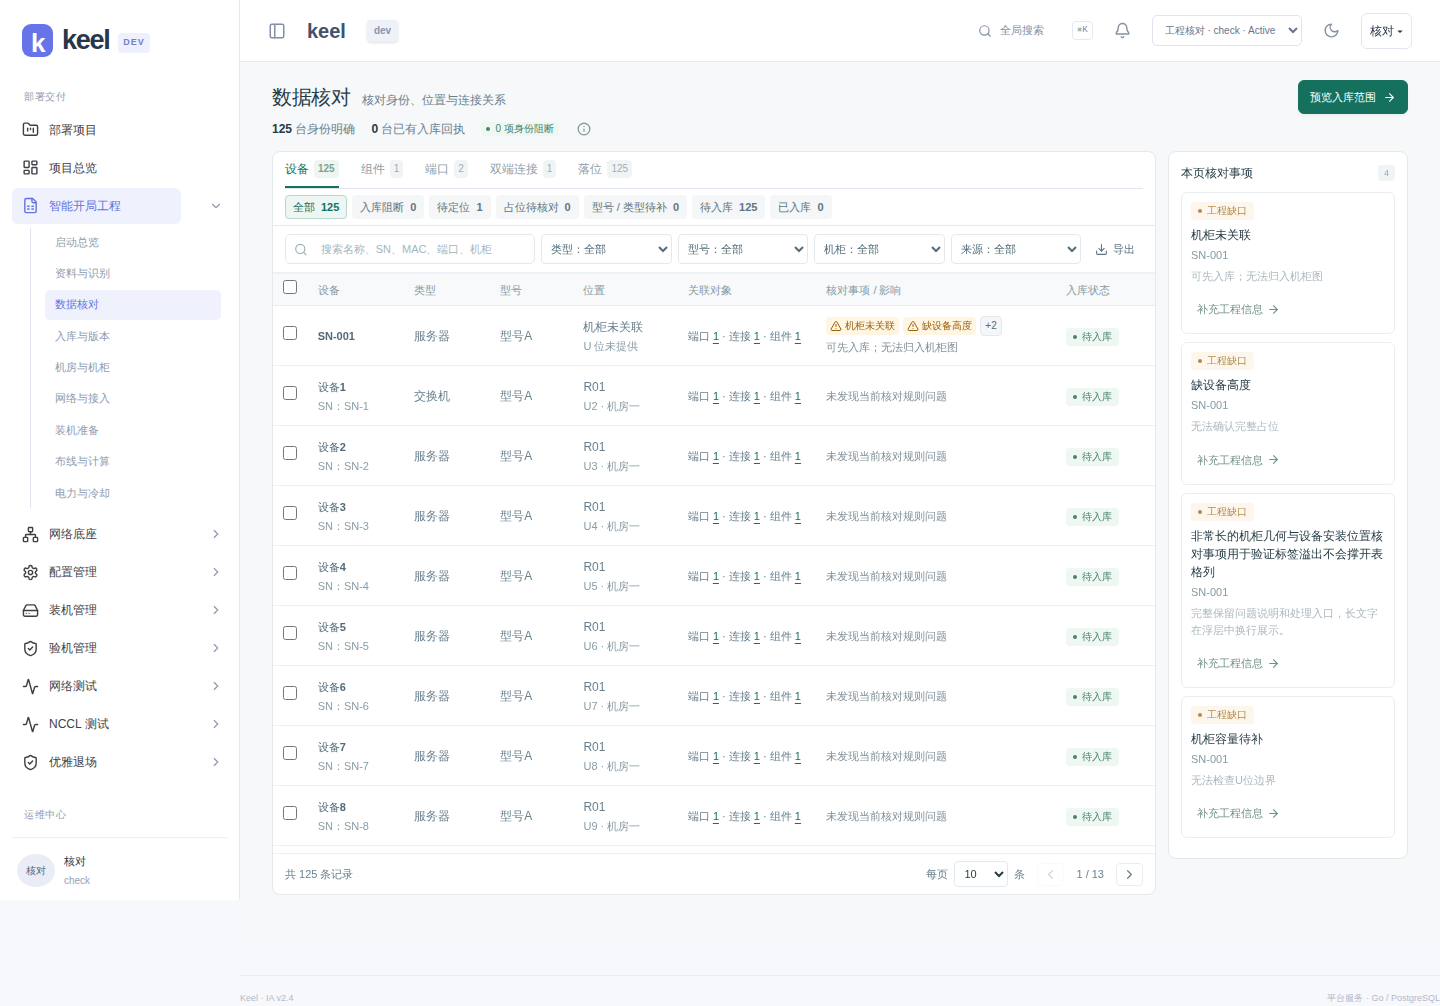
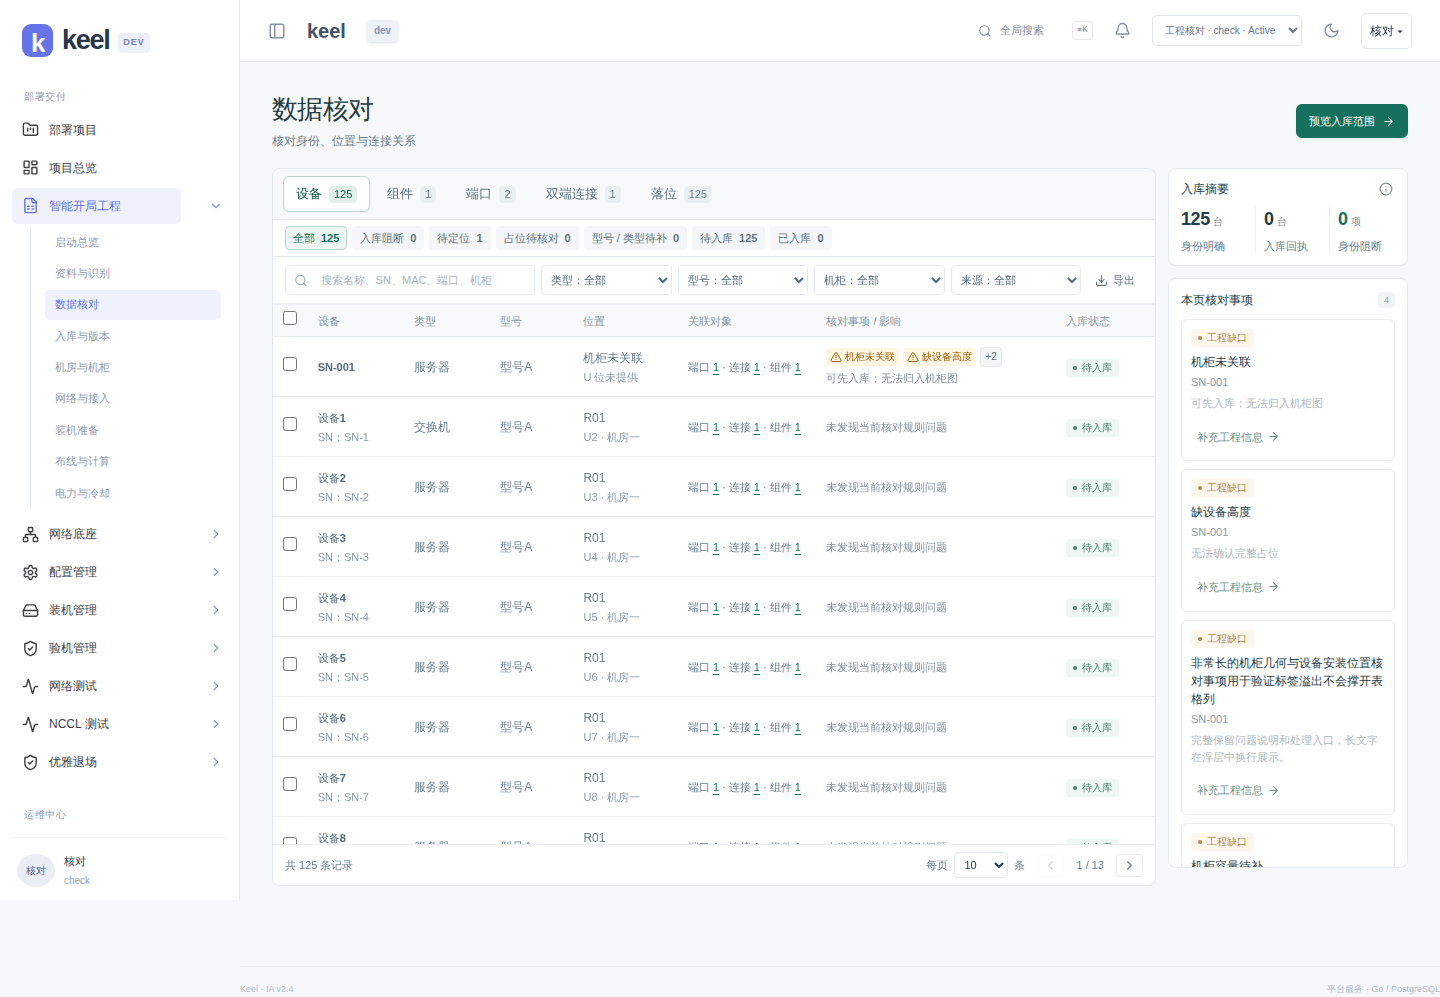
style(kickoff): align review heading and clarify entity navigation

diff --git a/dev/src/features/kickoff/pages/Review.tsx b/dev/src/features/kickoff/pages/Review.tsx
@@ -57,15 +57,15 @@ export default function Review(){
  columns.push(col('signals','核对事项 / 影响',r=><div className="review-row-signals">{r.signals.length?<><div>{r.signals.slice(0,2).map((signal,i)=><span className={'review-signal '+signal.severity} title={`${signal.label}：${signal.impact}`} key={i}>{signal.severity!=='info'&&<AlertTriangle size={12}/>} {signal.label}</span>)}{r.signals.length>2&&<DropdownMenu><DropdownMenuTrigger asChild><button className="review-more-signals" aria-label={`查看 ${name(r)} 的另外 ${r.signals.length-2} 项问题`} onClick={e=>e.stopPropagation()}>+{r.signals.length-2}</button></DropdownMenuTrigger><DropdownMenuContent className="review-findings-menu" align="end" onClick={e=>e.stopPropagation()}>{r.signals.slice(2).map((signal,i)=><DropdownMenuItem key={i} className="review-finding-option" onSelect={()=>handleFinding(r,signal)}><span><b>{signal.label}</b><small>{signal.impact}</small></span><ArrowRight size={13}/></DropdownMenuItem>)}</DropdownMenuContent></DropdownMenu>}</div><small title={r.signals[0].impact}>{r.signals[0].impact}</small></>:<span className="review-clear">未发现当前核对规则问题</span>}</div>),col('state','入库状态',r=><Badge state={r.state}>{r.state==='published'?'已入库':r.state==='blocked'?'入库阻断':'待入库'}</Badge>,true),col('source','来源',r=><button className="source-link" onClick={e=>{e.stopPropagation();inspect('evidence',r.id,r.evidence);}} title={`${s.sources.find(v=>v.id===r.evidence.sourceId)?.name??'资料'} · ${r.evidence.cell}`}><FileSpreadsheet size={13}/>{r.evidence.sheet||'查看依据'}<ArrowRight size={12}/></button>),col('action','处理',r=>r.signals[0]?.action?<button className="text-link" onClick={e=>{e.stopPropagation();go(r.signals[0].action);}}>{r.signals[0].action.includes('models/')?'补充建模':'查看关联'}<ArrowRight size={12}/></button>:<span>—</span>));
  const edit=(i:Issue)=>{setIssue(i);setAnswer(i.scope==='identity'?i.entityId:String(s.models.find(m=>m.tableId==='equipment_specs')?.rows.find(r=>r.model===s.devices.find(d=>d.id===i.entityId)?.model)?.height_u??''));};
  return <TooltipProvider delayDuration={200}><div className="review-workbench">
- <div className="review-workbench-header"><div className="review-workbench-title"><h1>数据核对</h1><p>核对身份、位置与连接关系</p></div><Button kind="primary" disabled={!can('bom:execute')} onClick={()=>go('publish'+(selected.length?'?targets='+selected.join(','):''))}>预览入库范围<ArrowRight size={14}/></Button>
- <div className="review-status-summary"><span><b>{eligible.size}</b> 台身份明确</span><span><b>{published.size}</b> 台已有入库回执</span><Badge state={identityIssues?'blocked':'ready'}>{identityIssues} 项身份阻断</Badge><Tooltip><TooltipTrigger asChild><button className="review-info" aria-label="核对状态说明"><Info size={14}/></button></TooltipTrigger><TooltipContent side="bottom" className="max-w-xs leading-relaxed">先处理阻断项，可后补的信息独立保留。位置、型号和工程参数缺口分别展示；缺少几何不等于设备身份入库被阻断。筛选统计可能重叠，不能相加当作总数。</TooltipContent></Tooltip></div></div>
+ <div className="review-workbench-header heading"><div className="review-workbench-title"><h1>数据核对</h1><p>核对身份、位置与连接关系</p></div><Button kind="primary" disabled={!can('bom:execute')} onClick={()=>go('publish'+(selected.length?'?targets='+selected.join(','):''))}>预览入库范围<ArrowRight size={14}/></Button>
+</div>
  <div className="review-layout"><div className="review-table section"><div className="review-tabs"><Tabs items={tabs} value={category} onChange={v=>update({category:v,filter:'',page:'',q:'',sort:'',desc:'',type:'',model:'',rack:'',source:''})}/></div>
  <div className="review-quick-filters" aria-label="核对快捷筛选">{[...new Set([...(quickFilters[category]),...(filter==='issues'?['issues']:[])])].map(key=><button key={key} aria-pressed={filter===key} className={filter===key?'active':''} onClick={()=>update({filter:key==='all'?'':key,page:''})}>{filterLabels[key]}<b>{loading?'—':page.counts[key]??0}</b></button>)}</div>
 
  {pageError&&<Notice tone="error">{pageError}<Button onClick={()=>setRetry(n=>n+1)}>重新加载</Button></Notice>}
  <div className="review-page" aria-busy={loading}>{loading&&<div className="review-loading" role="status">正在读取核对数据…</div>}<DataTable pageSize={pageSize} paginationControls={<label className="review-page-size">每页<select aria-label="单页展示数量" value={pageSize} onChange={e=>update({page_size:e.target.value,page:''})}>{pageSizes.map(size=><option key={size} value={size}>{size}</option>)}</select>条</label>} searchPlaceholder="搜索名称、SN、MAC、端口、机柜" remote={{...paging,total:page.total,change:value=>update({page:value.page?String(value.page):'',q:value.search,sort:value.sorting[0]?.id??'',desc:value.sorting[0]?.desc?'true':''})}} data={page.rows} columns={columns} onRow={r=>inspect(category==='devices'||category==='placements'?'device':category==='connections'?'connection':category==='components'?'component':'port',r.id)} toolbar={<><div className="review-toolbar-facets">{(['type','model','rack','source'] as const).map(key=><label key={key}><span>{{type:'类型',model:'型号',rack:'机柜',source:'来源资料'}[key]}</span><select aria-label={{type:'筛选类型',model:'筛选型号',rack:'筛选机柜',source:'筛选来源资料'}[key]} value={params.get(key)??''} onChange={e=>update({[key]:e.target.value,page:''})}><option value="">{{type:'类型',model:'型号',rack:'机柜',source:'来源'}[key]}：全部</option>{(result?.page.facets??emptyPage.facets)[key].map(option=><option value={option.value} key={option.value}>{key==='type'?typeLabel(option.label):key==='source'?s.sources.find(v=>v.id===option.value)?.name??option.label:option.label}</option>)}</select></label>)}{(filter!=='all'||paging.search||['type','model','rack','source'].some(key=>params.has(key)))&&<Button kind="ghost" onClick={()=>update({filter:'',q:'',page:'',type:'',model:'',rack:'',source:''})}>清除筛选</Button>}</div><Button kind="ghost" disabled={loading||!!pageError} onClick={()=>run('核对结果已导出',async()=>{const exportQuery=new URLSearchParams(query);exportQuery.delete('offset');exportQuery.delete('limit');const result=await api.exportReview!(exportQuery);downloadFile(JSON.stringify(result,null,2),'核对结果-'+category+'.json','application/json');})}><Download size={14}/><span>导出</span></Button></>}/></div>
  {selected.length>0&&category==='devices'&&<div className="selection-bar"><CheckCheck size={16}/><b>已选 {selected.length} 台设备</b><Button kind="ghost" onClick={()=>setSelected([])}>清空选择</Button><Button kind="primary" disabled={!can('bom:execute')} onClick={()=>go('publish?targets='+selected.join(','))}>确认所选范围<ArrowRight size={14}/></Button></div>}</div>
-      <aside className="review-issues"><div className="issues-heading"><h2>本页核对事项</h2><span>{page.rows.reduce((n,r)=>n+r.signals.length,0)}</span></div>{page.rows.flatMap(row=>row.signals.map(signal=>({row,signal}))).slice(0,issueLimit).map(({row,signal},i)=><div className={'issue-card '+(signal.severity==='block'?'identity':'placement')} key={row.id+':'+i}><div><Badge state={signal.severity==='block'?'blocked':'needs_input'}>{signal.severity==='block'?'影响入库':signal.severity==='warning'?'工程缺口':'待补充信息'}</Badge></div><h3 title={signal.label}>{signal.label}</h3><p title={name(row)}>{name(row)}</p><span className="issue-impact" title={signal.impact}>{signal.impact}</span><Button kind="ghost" onClick={()=>handleFinding(row,signal)}>{signal.action.startsWith('models/')?'补充工程信息':'核对关联'}<ArrowRight size={14}/></Button></div>)}{!loading&&!page.rows.some(r=>r.signals.length)&&<p className="source-note">当前页没有发现核对事项。实际运行状态需以采集证据为准。</p>}{page.rows.reduce((n,r)=>n+r.signals.length,0)>issueLimit&&<Button kind="ghost" onClick={()=>setIssueLimit(n=>n+20)}>显示本页更多事项</Button>}</aside>
+      <div className="review-side-rail"><section className="review-stats-card" aria-label="入库摘要"><div className="review-stats-heading"><h2>入库摘要</h2><Tooltip><TooltipTrigger asChild><button className="review-info" aria-label="核对状态说明"><Info size={14}/></button></TooltipTrigger><TooltipContent side="left" className="max-w-xs leading-relaxed">身份明确和已有入库回执分别统计，不应相加。先处理身份阻断；位置、型号和几何缺口可以继续补充，不等于设备身份入库被阻断。</TooltipContent></Tooltip></div><div className="review-stats-grid"><div title="身份明确的设备数量"><strong>{eligible.size}<small>台</small></strong><span>身份明确</span></div><div title="已有入库回执的设备数量"><strong>{published.size}<small>台</small></strong><span>入库回执</span></div><div className={identityIssues?'has-blockers':'no-blockers'} title="尚未解决的身份阻断项"><strong>{identityIssues}<small>项</small></strong><span>身份阻断</span></div></div></section><aside className="review-issues"><div className="issues-heading"><h2>本页核对事项</h2><span>{page.rows.reduce((n,r)=>n+r.signals.length,0)}</span></div>{page.rows.flatMap(row=>row.signals.map(signal=>({row,signal}))).slice(0,issueLimit).map(({row,signal},i)=><div className={'issue-card '+(signal.severity==='block'?'identity':'placement')} key={row.id+':'+i}><div><Badge state={signal.severity==='block'?'blocked':'needs_input'}>{signal.severity==='block'?'影响入库':signal.severity==='warning'?'工程缺口':'待补充信息'}</Badge></div><h3 title={signal.label}>{signal.label}</h3><p title={name(row)}>{name(row)}</p><span className="issue-impact" title={signal.impact}>{signal.impact}</span><Button kind="ghost" onClick={()=>handleFinding(row,signal)}>{signal.action.startsWith('models/')?'补充工程信息':'核对关联'}<ArrowRight size={14}/></Button></div>)}{!loading&&!page.rows.some(r=>r.signals.length)&&<p className="source-note">当前页没有发现核对事项。实际运行状态需以采集证据为准。</p>}{page.rows.reduce((n,r)=>n+r.signals.length,0)>issueLimit&&<Button kind="ghost" onClick={()=>setIssueLimit(n=>n+20)}>显示本页更多事项</Button>}</aside></div>
     </div>
     {issue&&<Modal title={issue.title} description={issue.description} close={()=>setIssue(undefined)}><Notice>{issue.impact}。确认后保留原始来源和本次人工决定。</Notice>{issue.scope==='identity'?<Field label="匹配到的设备" hint={matches.length?'仅显示相同SN和类型的身份，确认后保留所选身份。':'当前无可关联身份，请修正来源后重新识别；该对象保持待确认。'}><select value={answer} onChange={e=>setAnswer(e.target.value)}><option value="">选择相同SN的明确身份</option>{matches.map(d=><option key={d.id} value={d.id}>{d.name} · {d.serial}</option>)}</select></Field>:<Field label="占用高度 U" hint="建议值来自明确匹配的设备型号，确认后应用于此设备。"><input type="number" min="1" step="1" value={answer} onChange={e=>setAnswer(e.target.value)}/></Field>}<div className="modal-actions"><Button onClick={()=>setIssue(undefined)}>稍后处理</Button><Button kind="primary" disabled={issue.scope==='identity'&&!matches.some(d=>d.id===answer)} onClick={async()=>{if(await run('关联已确认，相关数据已更新',()=>api.resolveIssue(issue.id,answer)))setIssue(undefined);}}><Check size={14}/>确认关联</Button></div></Modal>}
   </div></TooltipProvider>;

diff --git a/dev/src/features/kickoff/styles.css b/dev/src/features/kickoff/styles.css
@@ -81,21 +81,22 @@
 .kickoff-workspace .detail-port-list th{font-size:11px;color:var(--muted);font-weight:500}
 
 /* Compact review workbench: presentation-only overrides, isolated from other pages. */
-.kickoff-workspace .review-workbench{margin-top:-12px;min-width:0}
-.kickoff-workspace .review-workbench-header{display:grid;grid-template-columns:minmax(0,1fr) auto;align-items:center;gap:5px 16px;margin-bottom:12px}
-.kickoff-workspace .review-workbench-title{display:flex;align-items:baseline;gap:12px;min-width:0}
-.kickoff-workspace .review-workbench-title h1{margin:0;font-size:20px;line-height:28px;letter-spacing:-.4px;font-weight:650;color:var(--text);white-space:nowrap}
+.kickoff-workspace .review-workbench{min-width:0}
+.kickoff-workspace .review-workbench-header{display:flex;align-items:center;justify-content:space-between;gap:16px;margin-bottom:18px}
+.kickoff-workspace .review-workbench-title{display:flex;flex-direction:column;align-items:flex-start;gap:5px;min-width:0}
+.kickoff-workspace .review-workbench-title h1{margin:0;white-space:nowrap}
 .kickoff-workspace .review-workbench-title p{margin:0;font-size:12px;line-height:18px;color:#69818f}
-.kickoff-workspace .review-workbench-header>.button{height:30px;padding:5px 11px;font-size:11px}
-.kickoff-workspace .review-status-summary{grid-column:1/-1;display:flex;align-items:center;gap:16px;min-height:20px;font-size:12px;color:#69818f;overflow-x:auto;white-space:nowrap}
-.kickoff-workspace .review-status-summary b{color:var(--text);font-weight:600;font-variant-numeric:tabular-nums}
-.kickoff-workspace .review-status-summary .badge{font-size:10px;padding:2px 5px}
+.kickoff-workspace .review-workbench-header>.button{height:32px;padding:6px 12px;font-size:11px;flex-shrink:0}
 .kickoff-workspace .review-info{display:inline-flex;align-items:center;color:#81919a;padding:2px;border-radius:3px;flex-shrink:0}
 .kickoff-workspace .review-workbench .review-layout{grid-template-columns:minmax(0,1fr) 240px;gap:12px}
-.kickoff-workspace .review-workbench .review-tabs{padding:0 12px;margin:0}
-.kickoff-workspace .review-workbench .tabs{gap:22px;min-height:34px;margin:0;padding:0}
-.kickoff-workspace .review-workbench .tabs>button{padding:8px 0;font-size:12px;line-height:16px;gap:5px}
-.kickoff-workspace .review-workbench .tabs>button>span{font-size:10px;padding:1px 4px}
+.kickoff-workspace .review-workbench .review-tabs{padding:7px 10px;margin:0;border-bottom:1px solid var(--border);background:#f7f9fa;border-radius:8px 8px 0 0}
+.kickoff-workspace .review-workbench .tabs{gap:4px;min-height:36px;margin:0;padding:0;border:0}
+.kickoff-workspace .review-workbench .tabs>button{position:relative;min-height:36px;padding:8px 12px;border:1px solid transparent;border-radius:6px;background:transparent;font-size:13px;font-weight:500;line-height:18px;gap:7px;color:#607580;transition:background .15s,color .15s,border-color .15s}
+.kickoff-workspace .review-workbench .tabs>button>span{font-size:11px;font-weight:500;line-height:17px;padding:0 5px;border-radius:4px;color:#69818f;background:#eaf0f2;font-variant-numeric:tabular-nums}
+.kickoff-workspace .review-workbench .tabs>button:hover{background:#edf2f3;color:#263c46}
+.kickoff-workspace .review-workbench .tabs>button[aria-selected="true"]{background:#fff;border-color:#b9d5cb;color:#125b4b;font-weight:650;box-shadow:0 1px 3px #173c2f0d}
+.kickoff-workspace .review-workbench .tabs>button[aria-selected="true"]>span{background:#e2f0e9;color:#125b4b}
+.kickoff-workspace .review-workbench .tabs>button:focus-visible{outline:2px solid #15715e;outline-offset:2px}
 .kickoff-workspace .review-workbench .review-quick-filters{gap:5px;padding:6px 12px;min-height:36px;align-items:center}
 .kickoff-workspace .review-workbench .review-quick-filters button{gap:6px;padding:3px 7px;border-radius:4px;font-size:11px;line-height:16px;border-color:transparent;background:#f4f6f7;color:#617580}
 .kickoff-workspace .review-workbench .review-quick-filters button.active{color:var(--green);background:var(--green-soft);border-color:#b9d7cc}
@@ -110,7 +111,7 @@
 .kickoff-workspace .review-workbench .table-toolbar .button{flex-shrink:0;height:30px;padding:4px 7px;gap:5px;font-size:11px;white-space:nowrap}
 .kickoff-workspace .review-workbench .review-page{min-height:0}
 .kickoff-workspace .review-workbench .review-loading{inset:42px 0 0}
-.kickoff-workspace .review-workbench .table-scroll{max-height:calc(100dvh - 320px);overflow:auto;overscroll-behavior:contain}
+.kickoff-workspace .review-workbench .table-scroll{max-height:calc(100dvh - 360px);overflow:auto;overscroll-behavior:contain}
 .kickoff-workspace .review-workbench .table-scroll thead{position:sticky;top:0;z-index:1;background:#f7f9fa}
 .kickoff-workspace .review-workbench .table-scroll th{height:32px;padding:6px 10px;font-size:11px;line-height:18px;background:#f7f9fa}
 .kickoff-workspace .review-workbench .table-scroll tbody tr{height:60px}
@@ -156,9 +157,30 @@
 @media(max-width:760px){
  .kickoff-workspace .review-workbench-header{gap:5px 8px}
  .kickoff-workspace .review-workbench-title{align-items:flex-start;flex-direction:column;gap:0}
- .kickoff-workspace .review-workbench-title h1{font-size:18px;line-height:24px}
- .kickoff-workspace .review-status-summary{gap:10px;font-size:11px}
  .kickoff-workspace .review-workbench .table-toolbar .search-input{min-width:170px;flex-shrink:0}
  .kickoff-workspace .review-toolbar-facets{flex-shrink:0}
  .kickoff-workspace .review-workbench .table-scroll td{font-size:12px}
+}
+
+/* Align the review header with other Kickoff pages; group real counters above findings. */
+.kickoff-workspace .review-side-rail{display:flex;flex-direction:column;gap:12px;min-width:0;position:sticky;top:12px;max-height:calc(100dvh - 200px)}
+.kickoff-workspace .review-stats-card{border:1px solid var(--border);border-radius:8px;background:#fff;padding:11px 12px;flex-shrink:0}
+.kickoff-workspace .review-stats-heading{display:flex;align-items:center;justify-content:space-between;gap:8px;margin-bottom:9px}
+.kickoff-workspace .review-stats-heading h2{margin:0;font-size:12px;line-height:18px;font-weight:600;color:var(--text)}
+.kickoff-workspace .review-stats-grid{display:grid;grid-template-columns:repeat(3,minmax(0,1fr));gap:8px}
+.kickoff-workspace .review-stats-grid>div{display:flex;flex-direction:column;gap:4px;min-width:0}
+.kickoff-workspace .review-stats-grid>div+div{padding-left:8px;border-left:1px solid #edf1f3}
+.kickoff-workspace .review-stats-grid strong{display:flex;align-items:baseline;gap:3px;font-size:18px;font-weight:650;line-height:24px;letter-spacing:-.4px;font-variant-numeric:tabular-nums;color:var(--text)}
+.kickoff-workspace .review-stats-grid strong small{font-size:10px;font-weight:400;letter-spacing:0;color:#81919a}
+.kickoff-workspace .review-stats-grid span{font-size:11px;line-height:16px;white-space:nowrap;color:#69818f}
+.kickoff-workspace .review-stats-grid .has-blockers strong{color:#b53429}
+.kickoff-workspace .review-stats-grid .no-blockers strong{color:var(--green)}
+.kickoff-workspace .review-workbench .review-side-rail .review-issues{position:static;max-height:none;min-height:0;overflow:auto;flex:1 1 auto}
+@media(max-width:1050px){
+ .kickoff-workspace .review-side-rail{position:static;max-height:none}
+ .kickoff-workspace .review-stats-card{max-width:360px}
+ .kickoff-workspace .review-workbench .review-side-rail .review-issues{max-height:320px}
+}
+@media(max-width:760px){
+ .kickoff-workspace .review-workbench .tabs>button{padding:7px 10px;font-size:12px;min-height:34px}
 }

diff --git a/HANDOFF.md b/HANDOFF.md
@@ -18,7 +18,7 @@
 
 ## 五个模块当前结果
 
-- [Kickoff](docs/modules/kickoff.md)：9页/23表、非Agent范围发布和CMDB回执已上线；最新分页/来源/旧BOM退役也已上线。dev 新增历史资料理解报告、区域/对象分页和独立状态，已部署并通过定向真实HTTP检查；新Agent未开发，analyze503。数据核对五栏优化已上线：身份去重、独立规格列、异常影响与全量筛选；五栏及待定位筛选真实HTTP检查通过。Compact Workbench布局与10/25/50/100条分页已发布；真实MM页面只读交互检查通过。
+- [Kickoff](docs/modules/kickoff.md)：9页/23表、非Agent范围发布和CMDB回执已上线；最新分页/来源/旧BOM退役也已上线。dev 新增历史资料理解报告、区域/对象分页和独立状态，已部署并通过定向真实HTTP检查；新Agent未开发，analyze503。数据核对五栏优化已上线：身份去重、独立规格列、异常影响与全量筛选；五栏及待定位筛选真实HTTP检查通过。Compact Workbench布局与10/25/50/100条分页已发布；真实MM页面只读交互检查通过。最新标题/主切换/右侧统计卡调整已完成定向检查，按持续授权发布中。
 - [CMDB](docs/modules/cmdb.md)：统一身份、关系、版本、来源、ChangeSet及真实分页已上线；观测/采集未知不能显示健康。
 - [数据中心拓扑](docs/modules/topology.md)：五工作区使用真实CMDB；最新查询/端口上下文修复已上线。缺几何/观测保留限制。
 - [作业平台](docs/modules/jobs.md)：原生Kestra界面、Job Service、Agent/SSH及生命周期已上线；生产批次/NOS/规模验收未完成，ZTP事件消费者待Fabric联调。

diff --git a/docs/modules/kickoff.md b/docs/modules/kickoff.md
@@ -28,7 +28,7 @@
 
 ### 数据核对紧凑布局（已部署）
 
-标题、说明和入库统计合并为紧凑页头，单行状态摘要的详细含义放入Tooltip。五个实体Tab和全部核对统计保留；搜索、类型、型号、机柜、来源和导出共用单行工具栏。表格行高目标58–64px，区域滚动并固定表头；侧栏问题可滚动，长文字不撑开列。
+页头沿用其他Kickoff页面的标准标题字号与内容起始位置。三项真实入库统计集中在右侧核对事项上方的小卡片，详细含义放入Tooltip。五个实体Tab采用清晰的主切换样式，与次级状态筛选区分；全部核对统计保留；搜索、类型、型号、机柜、来源和导出共用单行工具栏。表格行高目标58–64px，区域滚动并固定表头；侧栏问题可滚动，长文字不撑开列。
 
 表格最多显示两个问题标签，其余通过可操作的 `+N` 菜单查看，保留相应处理入口。原有详情、来源、排序、筛选、选择、确认及导出不变。每页10/25/50/100条保存在前端URL `page_size`，转换成既有API的limit/offset；变更数量回到第一页，筛选和选择保留。没有修改业务规则、模型、HTTP契约或后端。
 
